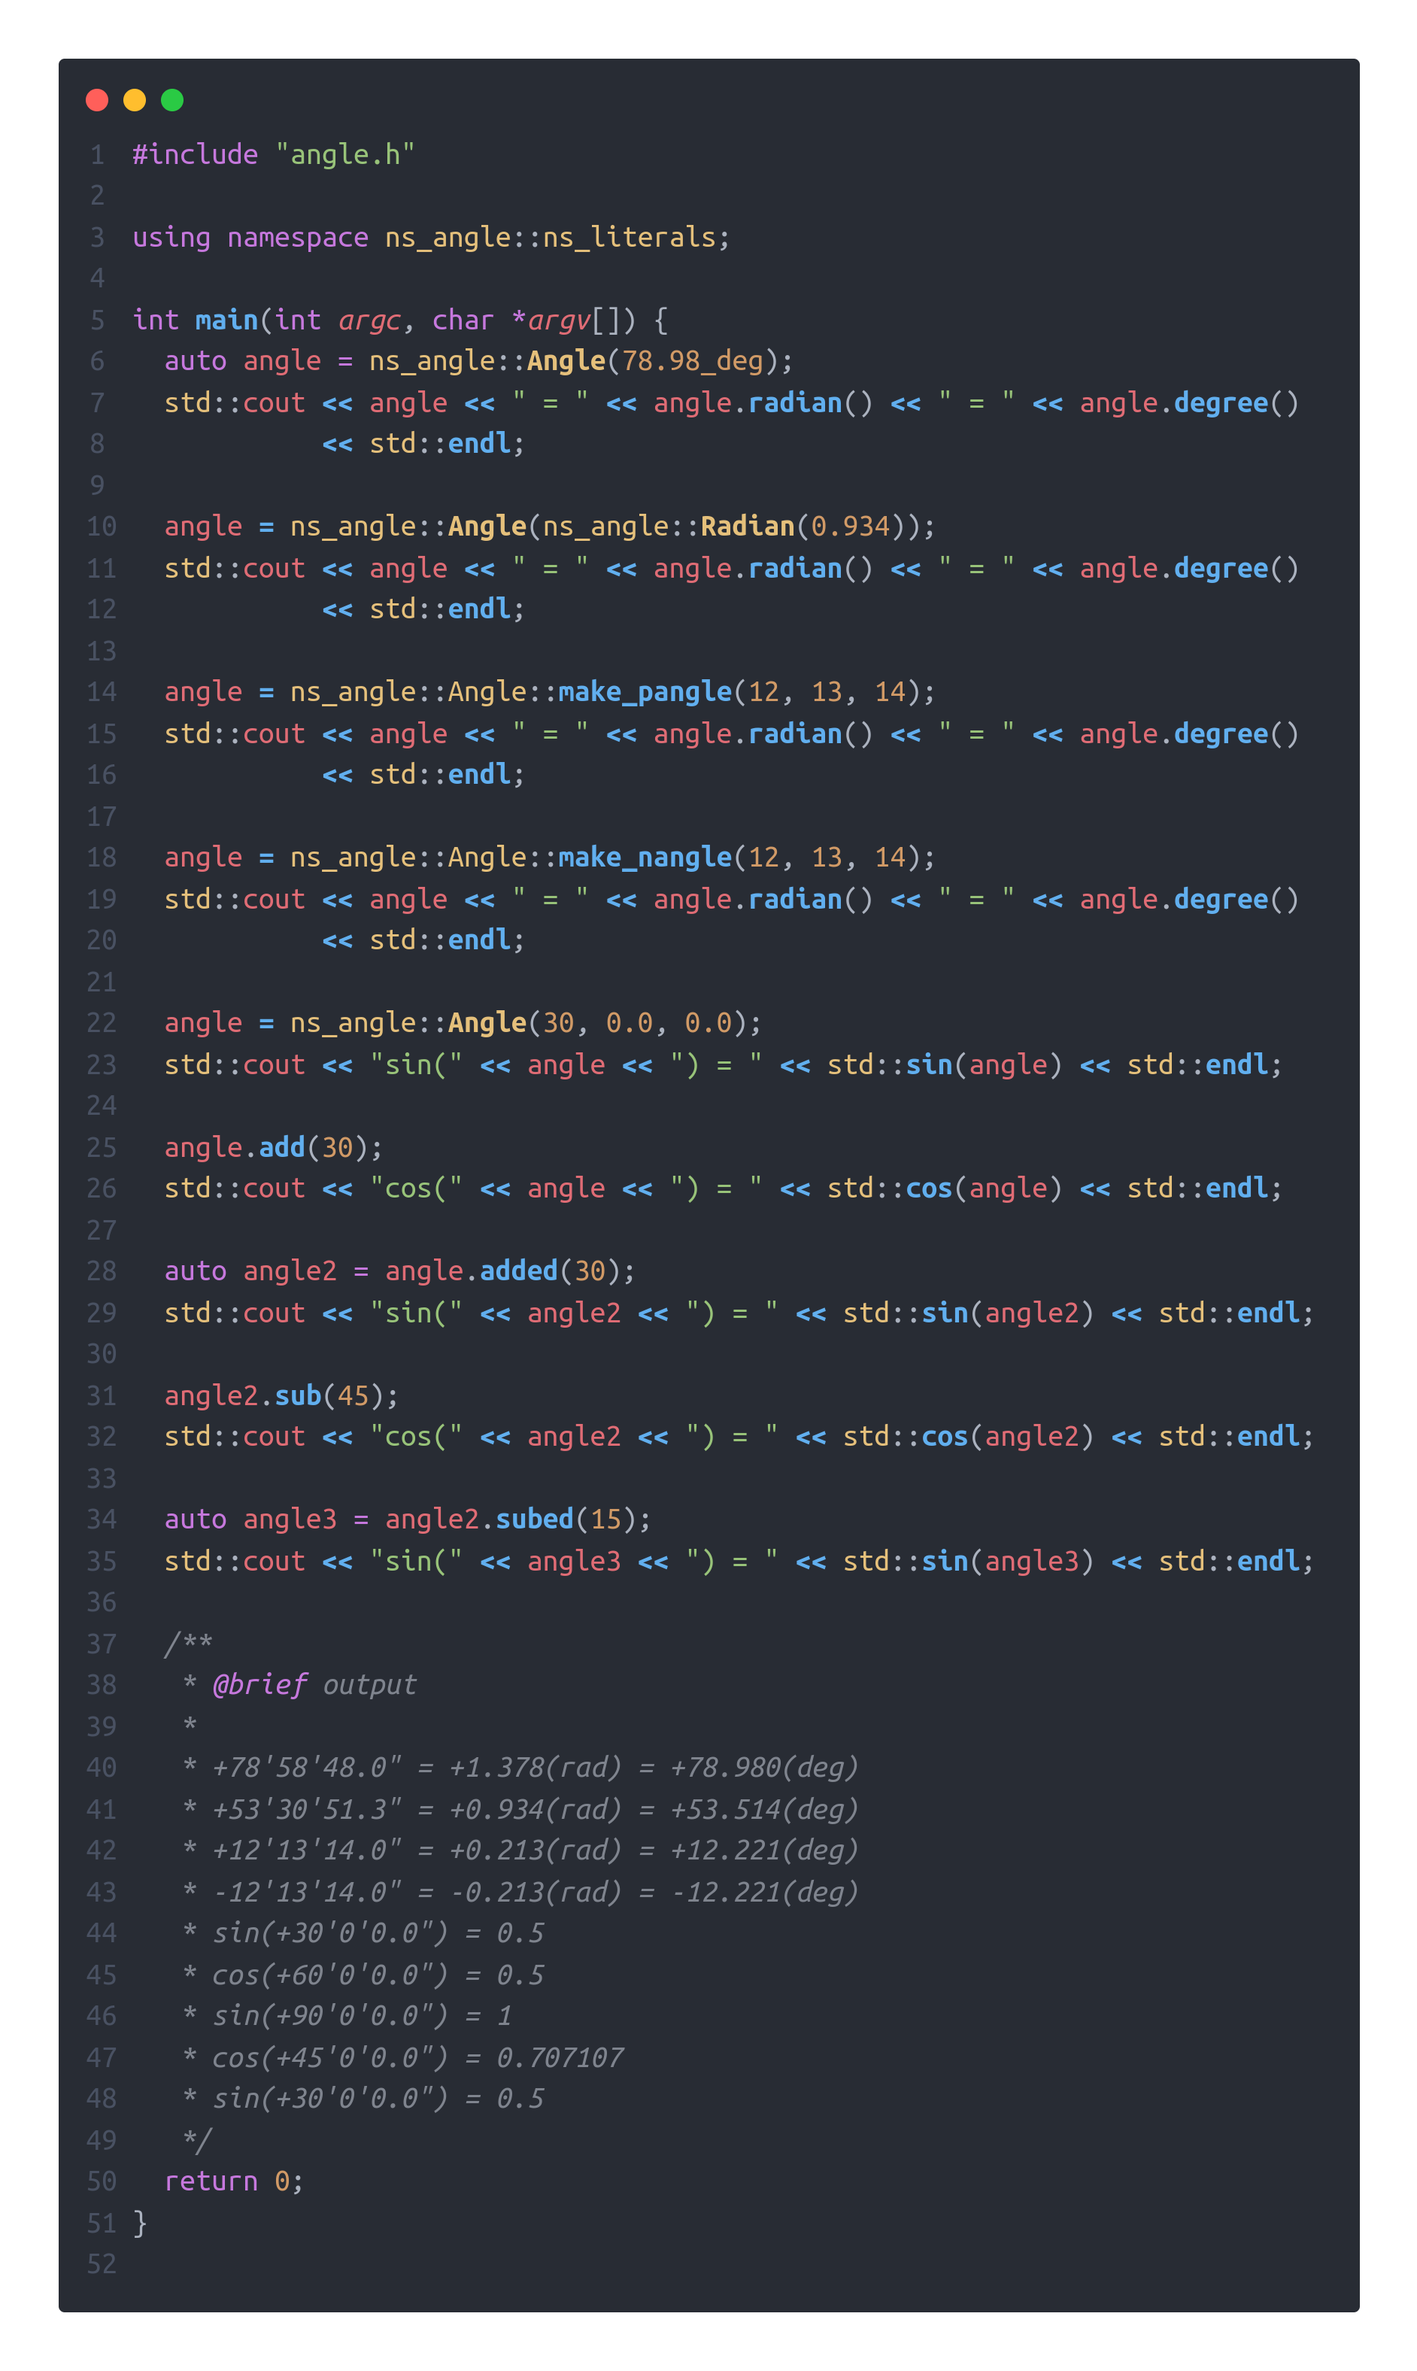
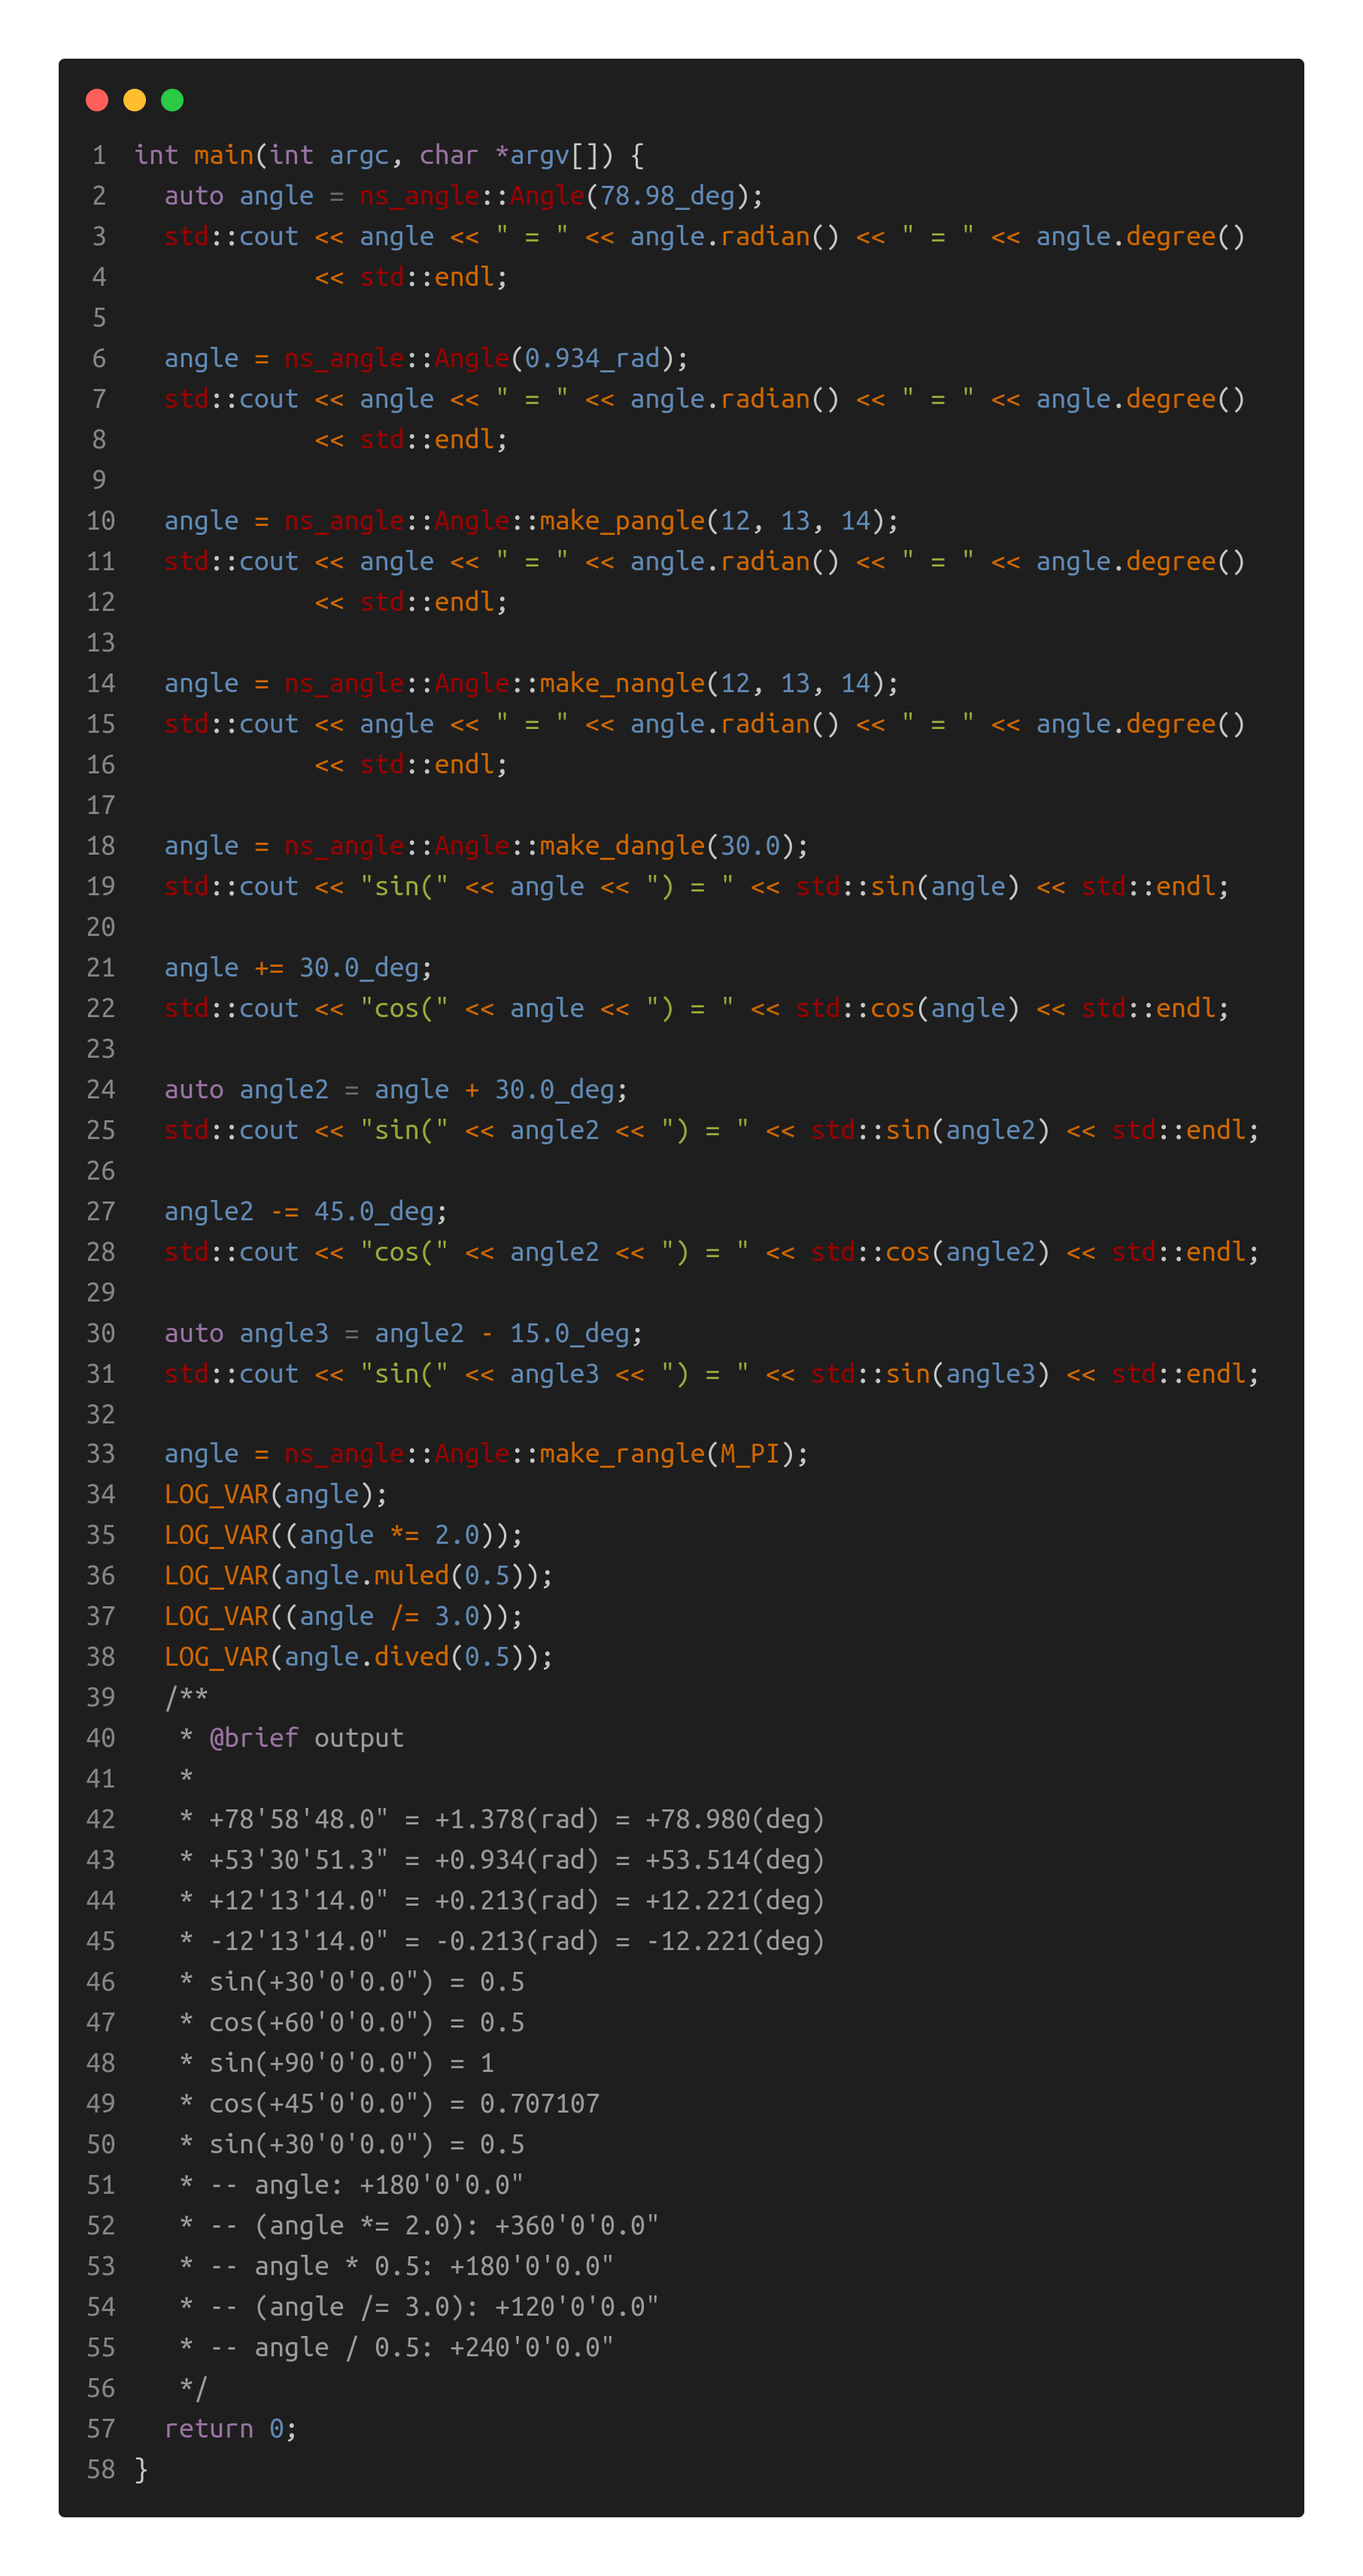
update

diff --git a/readme.md b/readme.md
@@ -19,17 +19,17 @@ _|    _|  _|    _|  _|    _|  _|  _|
 
 ## 1. Using Example
 
-<img src="./docs/code.png">
+<img src="./docs/code.png" width=80%>
 
 ## 2. Main Classes
 
-### 1) ___Degree___ class
+### 2.1 ___Degree___ class
 
 
 
 just used to create angle object
 
-+ ___ns_angle::Degree operator""_deg(long double deg)___
++ ___ns_angle::Degree operator""_deg(long double deg)__
 
 + ___std::ostream& operator<<(std::ostream& os, const Degree& degree)___
 ```cpp
@@ -37,11 +37,11 @@ just used to create angle object
  * @brief output the Degree object
  */
 ```
-### 2) ___Radian___ class
+### 2.2 ___Radian___ class
 
 just used to create angle object
 
-+ ___ns_angle::Radian operator""_rad(long double rad)___
++ ___ns_angle::Radian operator""_rad(long double rad)__
 
 + ___std::ostream& operator<<(std::ostream& os, const Radian& radian)___
 ```cpp
@@ -50,7 +50,7 @@ just used to create angle object
  */
 ```
 
-### 3) ___Angle___ class
+### 2.3 ___Angle___ class
 
 ___Angle___ class is used to calculate angles. The following is an introduction to some important class member functions.  
 
@@ -64,15 +64,6 @@ ___Angle___ class is used to calculate angles. The following is an introduction 
 ```cpp
   /**
    * @brief Construct a new Angle object using radian
-   */
-```
-+ ___Angle(int deg, int min = 0, long double sed = 0.0)___
-```cpp
-  /**
-   * @brief Construct a new Angle object using d'm's"
-   *
-   * @attention positive angle [+30'12'15.0"] equals to Angle(30, 12, 15.0)
-   * @attention negative angle [-14'24'46.0"] equals to Angle(-14, -24, -46.0)
    */
 ```
 + ___static Angle make_pangle(int deg, int min = 0, long double sed = 0.0)___
@@ -128,26 +119,18 @@ ___Angle___ class is used to calculate angles. The following is an introduction 
    */
 ```
 
-+ ___Angle& add(const ns_angle::Degree& deg)___
-
-+ ___Angle& add(const ns_angle::Radian& rad)___
-
-+ ___Angle& add(int deg, int min = 0, long double sed = 0.0)___
-
-+ ___Angle& add(const Angle& angle)___
++ ___inline Angle &operator+=(const ns_angle::Degree &deg)___
++ ___inline Angle &operator+=(const ns_angle::Radian &rad)___
++ ___inline Angle &operator+=(const Angle &angle)___
 ```cpp
   /**
    * @brief Self increasing
    */
 ```
 
-+ ___Angle added(const ns_angle::Degree& deg) const___
-
-+ ___Angle added(const ns_angle::Radian& rad) const___
-
-+ ___Angle added(int deg, int min = 0, long double sed = 0.0) const___
-
-+ ___Angle added(const Angle& angle) const___
++ ___inline Angle operator+(const ns_angle::Degree &deg) const___
++ ___inline Angle operator+(const ns_angle::Radian &rad) const___
++ ___inline Angle operator+(const Angle &angle) const___
 
 ```cpp
   /**
@@ -155,13 +138,12 @@ ___Angle___ class is used to calculate angles. The following is an introduction 
    */
 ```
 
-+ ___Angle& sub(const ns_angle::Degree& deg)___
++ ___inline Angle &operator-=(const ns_angle::Degree &deg)___
 
-+ ___Angle& sub(const ns_angle::Radian& rad)___
++ ___inline Angle &operator-=(const ns_angle::Radian &rad)___
 
-+ ___Angle& sub(int deg, int min = 0, long double sed = 0.0)___
++ ___inline Angle &operator-=(const Angle &angle)___
 
-+ ___Angle& sub(const Angle& angle)___
 
 ```cpp
   /**
@@ -169,13 +151,9 @@ ___Angle___ class is used to calculate angles. The following is an introduction 
    */
 ```
 
-+ ___Angle subed(const ns_angle::Degree& deg) const___
-
-+ ___Angle subed(const ns_angle::Radian& rad) const___
-
-+ ___Angle subed(int deg, int min = 0, long double sed = 0.0) const___
-
-+ ___Angle subed(const Angle& angle) const___
++ ___inline Angle operator-(const ns_angle::Degree &deg) const___ 
++ ___inline Angle operator-(const ns_angle::Radian &rad) const___
++ ___inline Angle operator-(const Angle &angle) const___
 
 ```cpp
   /**
@@ -197,3 +175,18 @@ ___Angle___ class is used to calculate angles. The following is an introduction 
  * @brief output the angle object
  */
 ```
+
++ ___inline Angle &operator*=(long double factor)___
++ ***inline Angle muled(long double factor) const***
+
+```cpp
+// don't overload the operator '*' becase it will cause conflicts during type conversion
+```
+
++ ___inline Angle &operator/=(long double factor)___
++ ***inline Angle dived(long double factor) const***
+
+```cpp
+// don't overload the operator '/' becase it will cause conflicts during type conversion
+```
+
